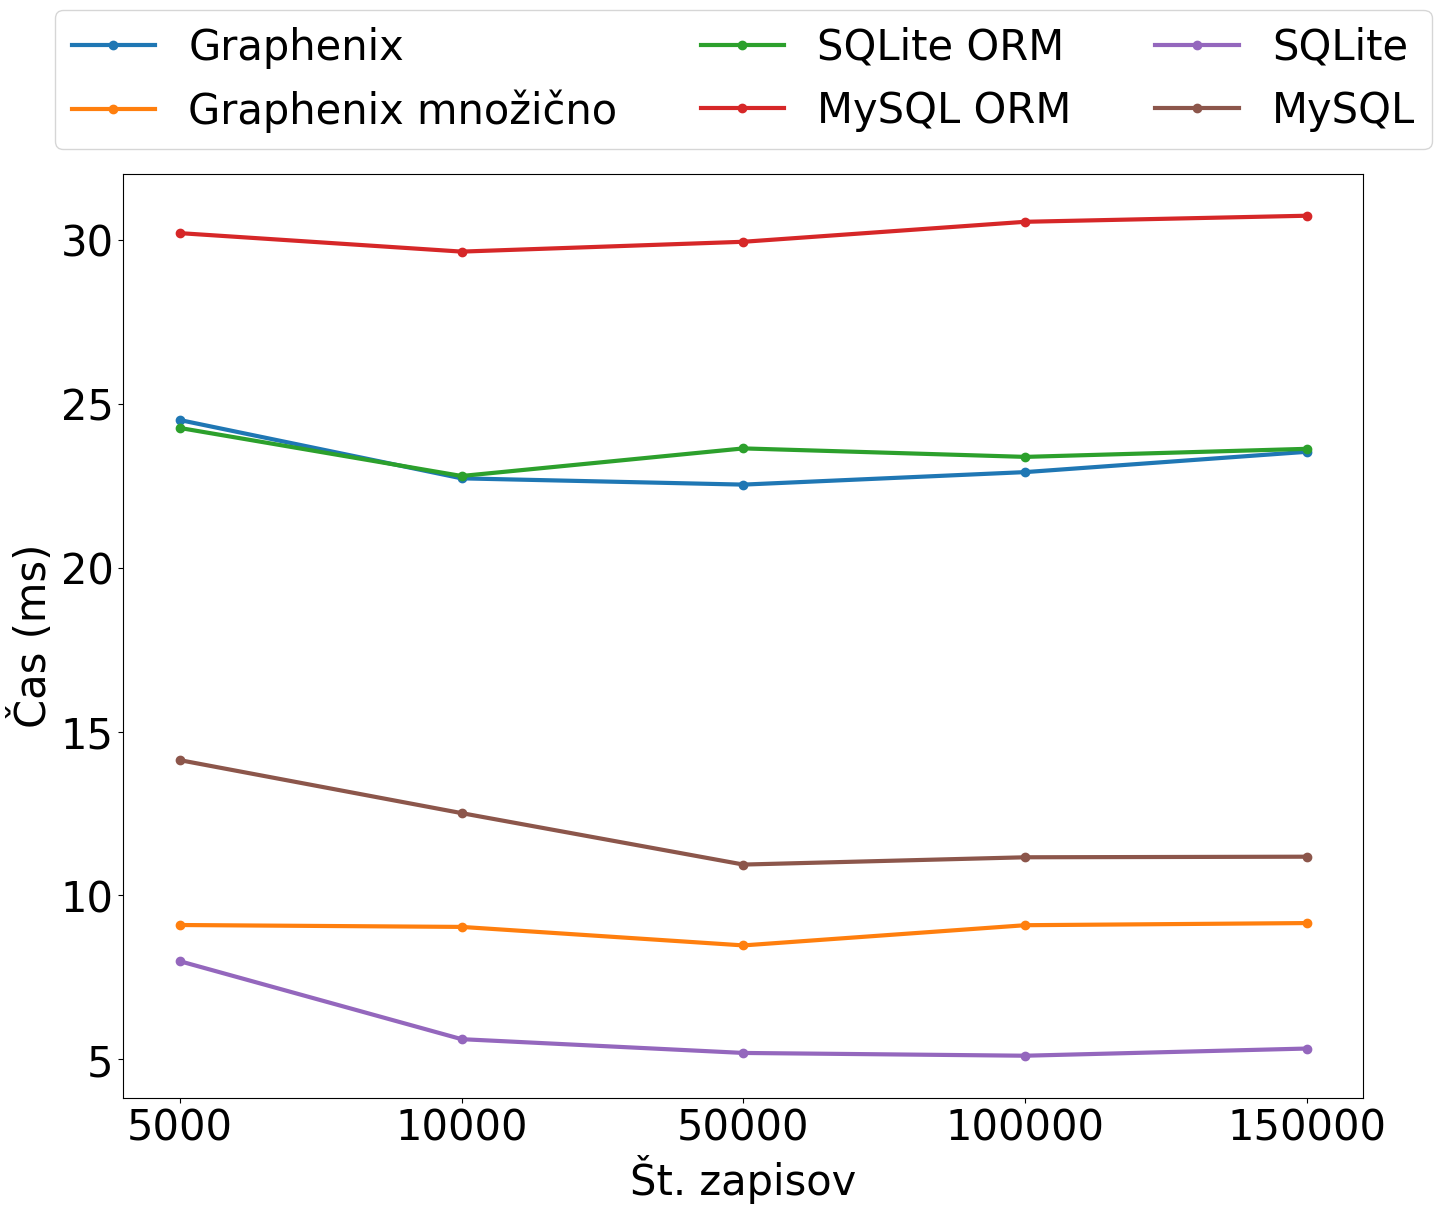
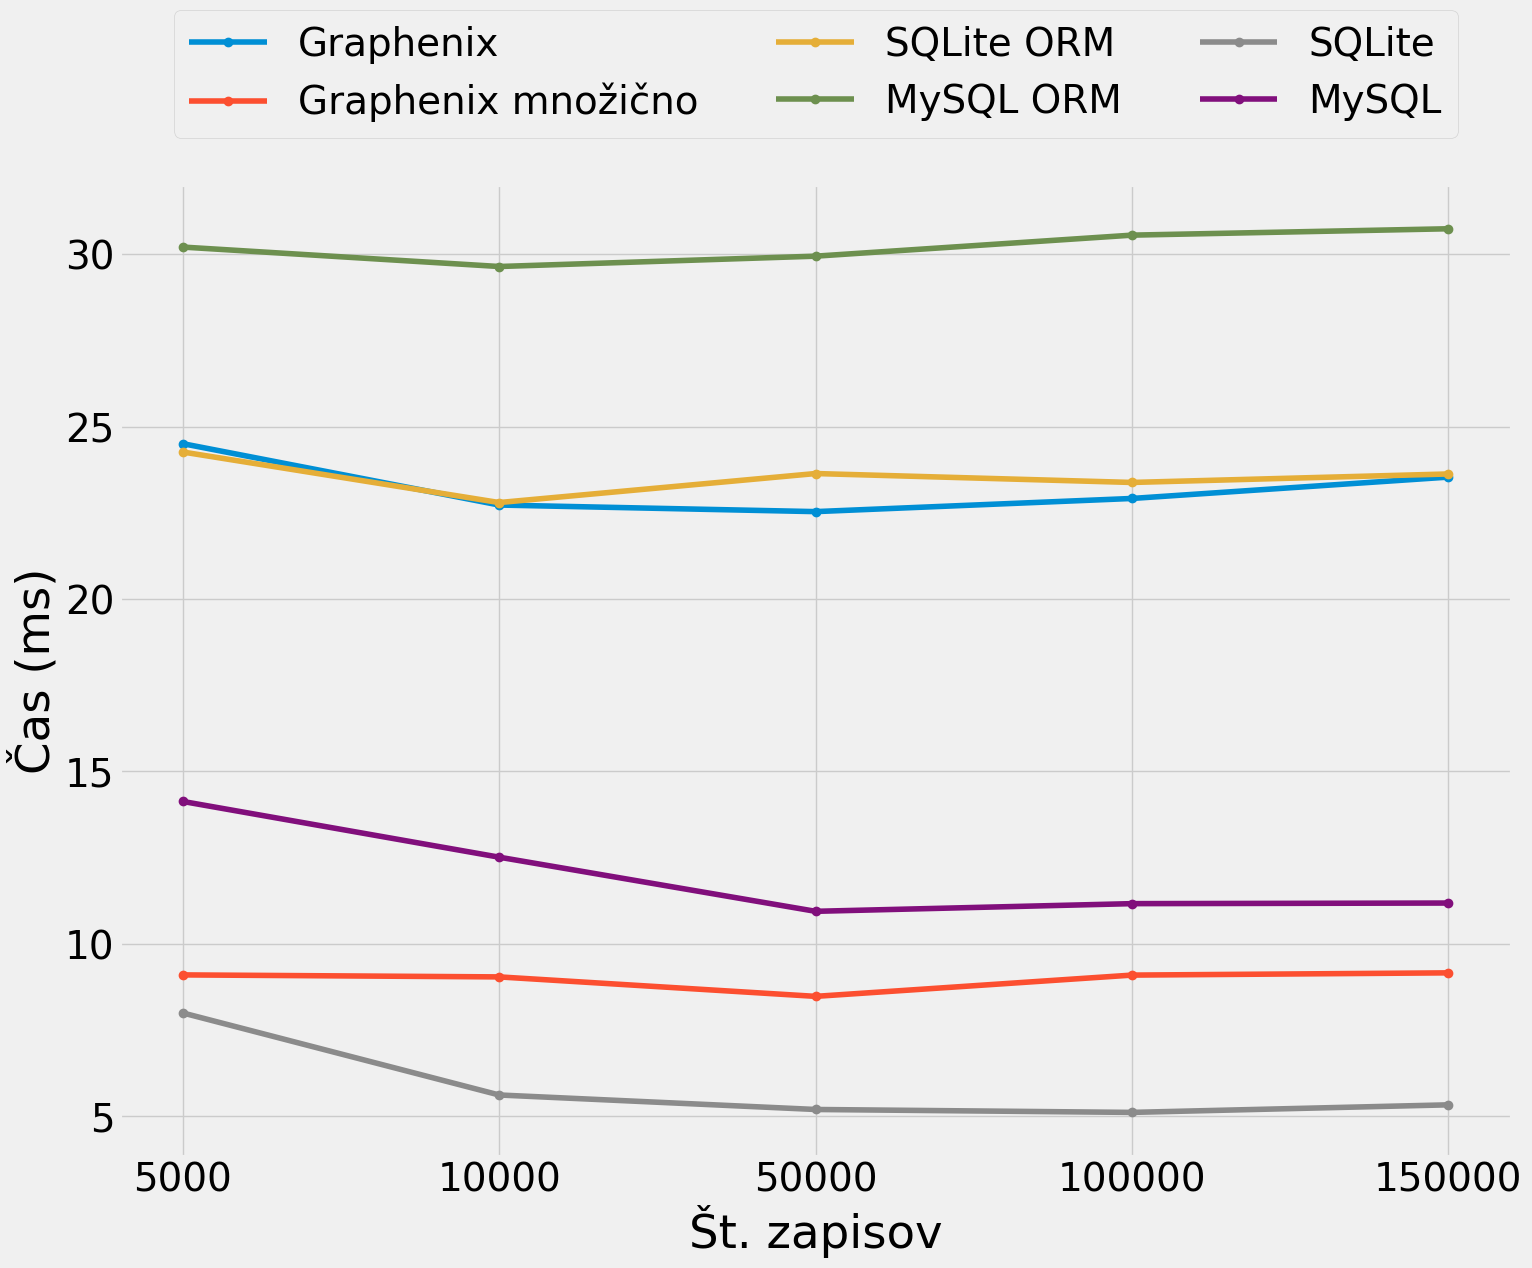
- change graph style - add make all graphs make option - update graph images - add indexing speedup analysis

diff --git a/analysis/find_no_index/graph_size.py b/analysis/find_no_index/graph_size.py
@@ -12,42 +12,45 @@ def read_nums(file_path):
         print("err", ex)
         return []
 
-sizes = {
-    1000000: [131, 14_197],
-    10000000: [1308, 140_758],
-}
-
 def main():
     num_users = int(sys.argv[1])
     file_indexed_1 = f'./analysis/find_index/result_{num_users}.txt'
     file_normal_1 =  f'./analysis/find_no_index/result_{num_users}.txt'
     
-    speedups = read_nums(file_normal_1) / read_nums(file_indexed_1)
-    plt.rcParams.update({'font.size': 2.5 * plt.rcParams['font.size']})
-    plt.style.use("fast")
+    no_index = read_nums(file_normal_1) 
+    indexed = read_nums(file_indexed_1)
+
+    plt.style.use("fivethirtyeight")
+    plt.rcParams.update({'font.size': 2 * plt.rcParams['font.size']})
 
     x_values = np.arange(3)
     fig, ax = plt.subplots(figsize=(16, 12))
-    width = 0.45
+    width = 0.22
     
-    bars = ax.bar(x_values, speedups, width, label=f'{more_size} - 1.25 %', color="#EEEC7B")
+    ax.bar(x_values - width, no_index, width, label='Without index', color="#EEEC7B")
+    ax.bar(x_values + width, indexed, width, label=f'Using B+ tree', color="#68ADDF")
 
     # Set labels and title
     ax.set_xlabel('DBMS')
-    ax.set_ylabel('Faktor pohitritve')
+    ax.set_ylabel('Čas (ms)')
     ax.set_title('')
     ax.set_xticks(x_values)
-    ax.set_xticklabels(['Graphenix', 'SQLite', 'MySQL'])
+    speedups = no_index / indexed
+    ax.set_xticklabels([
+        f'Graphenix\n{speedups[0]:.2f}x\n',
+        f'SQLite\n{speedups[1]:.2f}x\n',
+        f'MySQL\n{speedups[1]:.2f}x\n'
+    ])
 
-    for bar in bars:
-        height = more.get_height()
-        bottom_offset = 0.5
-        ax.text(more.get_x() + more.get_width() / 2, height + bottom_offset, f'{height:.2f}x', 
-                ha='center', va='bottom', fontweight='normal')
-        
-        iheight = less.get_height()
-        ax.text(less.get_x() + less.get_width() / 2, iheight + bottom_offset, f'{(iheight):.2f}x', 
-                ha='center', va='bottom', fontweight='normal')
+    # for bar in bars:
+    #     height = more.get_height()
+    #     bottom_offset = 0.5
+    #     ax.text(more.get_x() + more.get_width() / 2, height + bottom_offset, f'{height:.2f}x', 
+    #             ha='center', va='bottom', fontweight='normal')
+    #     
+    #     iheight = less.get_height()
+    #     ax.text(less.get_x() + less.get_width() / 2, iheight + bottom_offset, f'{(iheight):.2f}x', 
+    #             ha='center', va='bottom', fontweight='normal')
         
     ax.legend(loc='upper left')
     plt.savefig(f'./analysis/graphs/indexing_speedup_{num_users}.png', bbox_inches='tight')

diff --git a/analysis/singleinsert/graph.py b/analysis/singleinsert/graph.py
@@ -21,18 +21,18 @@ def main():
         col = read_nums(file)
         matrix[:, i] = (col * 1000) / size # time for 1000 inserts
 
-    plt.rcParams.update({'font.size': 3 * plt.rcParams['font.size']})
-    plt.style.use("fast")
+    plt.style.use("fivethirtyeight")
+    plt.rcParams.update({'font.size': 2 * plt.rcParams['font.size']})
 
     x_values = np.arange(len(sizes))
     fig, ax = plt.subplots(figsize=(16, 12))
 
-    ax.plot(x_values, matrix[0], label='Graphenix', marker='o', linewidth=3)
-    ax.plot(x_values, matrix[5], label='Graphenix množično', marker='o', linewidth=3)
-    ax.plot(x_values, matrix[1], label='SQLite ORM', marker='o', linewidth=3)
-    ax.plot(x_values, matrix[2], label='MySQL ORM', marker='o', linewidth=3)
-    ax.plot(x_values, matrix[3], label='SQLite', marker='o', linewidth=3)
-    ax.plot(x_values, matrix[4], label='MySQL', marker='o', linewidth=3)
+    ax.plot(x_values, matrix[0], label='Graphenix', marker='o', linewidth=4)
+    ax.plot(x_values, matrix[5], label='Graphenix množično', marker='o', linewidth=4)
+    ax.plot(x_values, matrix[1], label='SQLite ORM', marker='o', linewidth=4)
+    ax.plot(x_values, matrix[2], label='MySQL ORM', marker='o', linewidth=4)
+    ax.plot(x_values, matrix[3], label='SQLite', marker='o', linewidth=4)
+    ax.plot(x_values, matrix[4], label='MySQL', marker='o', linewidth=4)
 
     # Set labels and title
     ax.set_xlabel('Št. zapisov')

diff --git a/analysis/singleinsert/sizes_analysis.py b/analysis/singleinsert/sizes_analysis.py
@@ -24,8 +24,8 @@ def main():
     indexed_sizes = read_nums(f'analysis/singleinsert/indexed_size_{num_users}.txt')
     mb_indexed_sizes = bytes_array_to_megabytes(indexed_sizes)
     
-    plt.rcParams.update({'font.size': 3 * plt.rcParams['font.size']})
-    plt.style.use("fast")
+    plt.style.use("fivethirtyeight")
+    plt.rcParams.update({'font.size': 2 * plt.rcParams['font.size']})
 
     fig, ax = plt.subplots(figsize=(16, 12))
 

diff --git a/analysis/indexinsert/graph.py b/analysis/indexinsert/graph.py
@@ -21,8 +21,8 @@ def main():
         col = read_nums(file)
         matrix[:, i] = (col * 1000) / size # time for 1000 inserts
 
-    plt.rcParams.update({'font.size': 3 * plt.rcParams['font.size']})
-    plt.style.use("fast")
+    plt.style.use("fivethirtyeight")
+    plt.rcParams.update({'font.size': 2 * plt.rcParams['font.size']})
 
     x_values = np.arange(len(sizes))
     fig, ax = plt.subplots(figsize=(16, 12))

diff --git a/analysis/singleread/graph.py b/analysis/singleread/graph.py
@@ -20,8 +20,8 @@ def main():
         col = read_nums(file)
         matrix[:, i] = col # time for 100 inserts
 
-    plt.rcParams.update({'font.size': 2.5 * plt.rcParams['font.size']})
-    plt.style.use("fast")
+    plt.style.use("fivethirtyeight")
+    plt.rcParams.update({'font.size': 2 * plt.rcParams['font.size']})
 
     x_values = np.arange(len(sizes))
     fig, ax = plt.subplots(figsize=(16, 12))

diff --git a/analysis/clustering/stats_graph1.py b/analysis/clustering/stats_graph1.py
@@ -17,9 +17,9 @@ def main():
     sort_insert_queue = nums[1::3]
     sort_end = nums[2::3]
 
-    plt.rcParams.update({'font.size': 2.5 * plt.rcParams['font.size']})
+    plt.style.use("fivethirtyeight")
+    plt.rcParams.update({'font.size': 2 * plt.rcParams['font.size']})
 
-    plt.style.use("fast")
     x_values = np.arange(500, 25001, 500)
     fig, ax = plt.subplots(figsize=(16, 10))
     

diff --git a/analysis/join/graph.py b/analysis/join/graph.py
@@ -21,8 +21,8 @@ def main():
         col = read_nums(file)
         matrix[:, i] = col
 
-    plt.rcParams.update({'font.size': 3 * plt.rcParams['font.size']})
-    plt.style.use("fast")
+    plt.style.use("fivethirtyeight")
+    plt.rcParams.update({'font.size': 2 * plt.rcParams['font.size']})
 
     x_values = np.arange(len(sizes))
     fig, ax = plt.subplots(figsize=(16, 12))

diff --git a/analysis/queryread/graph.py b/analysis/queryread/graph.py
@@ -21,8 +21,8 @@ def main():
         col = read_nums(file)
         matrix[:, i] = col
 
-    plt.rcParams.update({'font.size': 3 * plt.rcParams['font.size']})
-    plt.style.use("fast")
+    plt.style.use("fivethirtyeight")
+    plt.rcParams.update({'font.size': 2 * plt.rcParams['font.size']})
 
     x_values = np.arange(len(sizes))
     fig, ax = plt.subplots(figsize=(16, 12))
